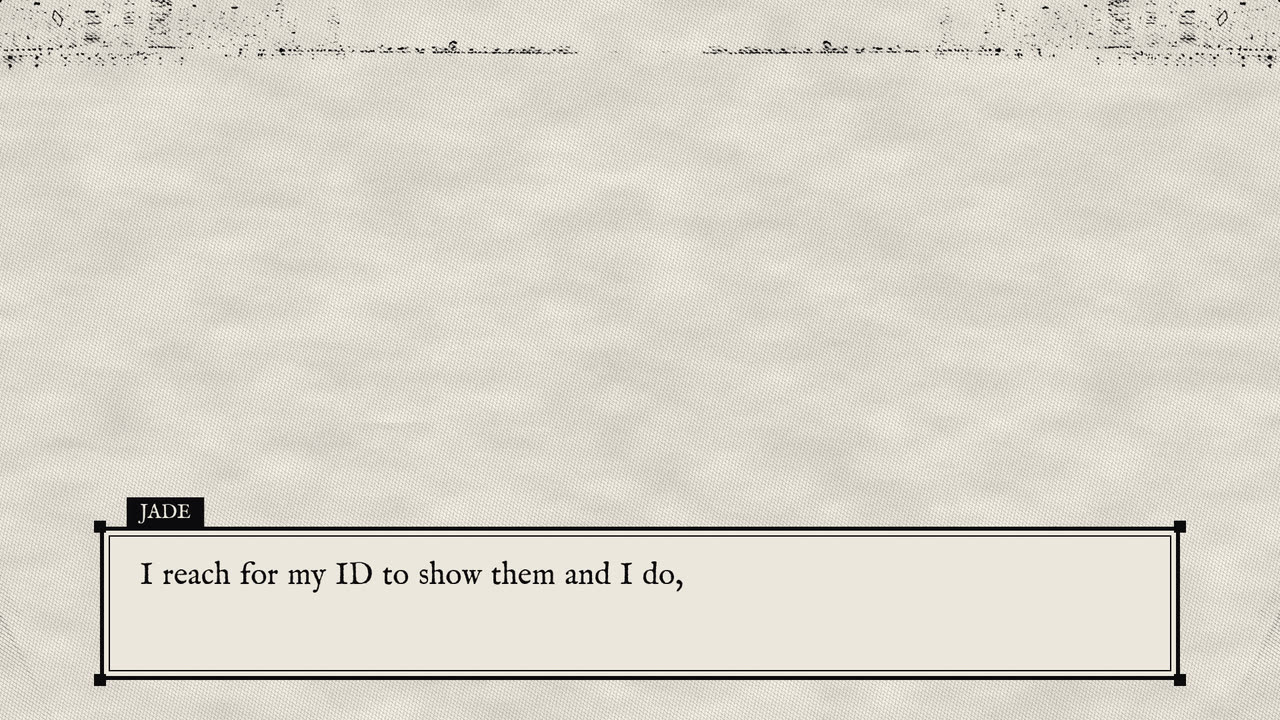
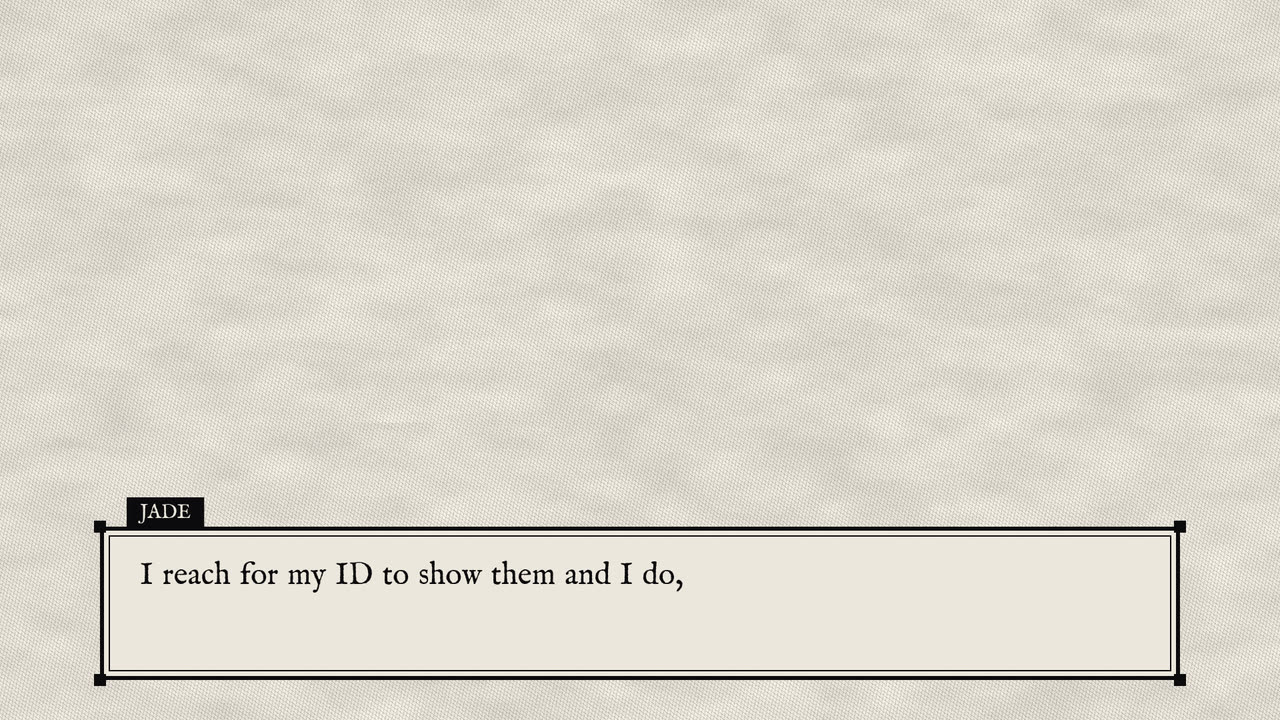
Engine kit fixes: no red, coloured ghosts, clean demo plate, terminal check
- Chroma split now fringes in the residue palette (orange #F08A24 / pale blue
  #8DB8E8) instead of red/cyan; new grade.residueRim remaps baked red rim
  lights to residue orange (on by default for ghosts); race HUD split colours
  orange/pale blue
- Ghosts default to translucent Kandinsky-coloured Jades and keep colour under
  isolate/negative; graphite: true gives the gray V2i speedrun ghost
- Kit demo plate cropped below the skyline strip that printed as a ragged band
  along the top edge (demo media, not an engine effect)
- Terminal redaction verified: black on paper, white in the inverted alarm;
  stills re-rendered, README updated

diff --git a/render/engine/demo/kit.js b/render/engine/demo/kit.js
@@ -1,9 +1,11 @@
 // Typography / HUD / residue kit demo: each shot sits at the moment of the song the shot list uses it for.
 //   node render/engine/render.mjs --timeline render/engine/demo/kit.js --stills 16.9,88.3,...   (see README "Kit stills")
 const M = 'media/engine_demo/';
-const JADE = { type: 'video', src: M + 'circle.mp4', matte: { src: M + 'circle_matte.mp4', mode: 'luma' }, keepColor: true, fit: 'height' };
+// the placeholder clip has a baked red rim light; residueRim remaps saturated reds to residue orange (no red in this film)
+const JADE = { type: 'video', src: M + 'circle.mp4', matte: { src: M + 'circle_matte.mp4', mode: 'luma' }, keepColor: true, fit: 'height', grade: { residueRim: 1 } };
 // the night plate printed as a negative: reads as an engraving on paper once `isolate` + `engrave` run over it
-const ENGRAVED = { type: 'image', src: M + 'far.jpg', fit: 'cover', scale: 1.15, grade: { exposure: 1.8, contrast: 1.15, invert: true } };
+// (cropped below the skyline strip, which printed as a ragged band along the top edge)
+const ENGRAVED = { type: 'image', src: M + 'far.jpg', fit: 'cover', crop: [0, 0.2, 1, 1], scale: 1.05, grade: { exposure: 1.8, contrast: 1.15, invert: true } };
 const PAPER_FX = [{ type: 'isolate', amount: 1, engrave: 0.6, cell: 5 }, { type: 'paper', amount: 0.6 }, { type: 'grain', amount: 0.04 }];
 const kb = (a, b) => ({ from: { scale: a }, to: { scale: b } });
 
@@ -41,13 +43,15 @@ export default {
     { id: 'continue', start: 111.22, end: 112.96, background: '#0b0b0c', layers: [{ type: 'canvas', module: 'hud', params: { mode: 'continue', from: 9, every: 0.8 } }] },
     { id: 'ghosts', start: 113.89, end: 119.4, layers: [{ ...ENGRAVED },
       { type: 'ghosts', src: M + 'circle.mp4', matte: { src: M + 'circle_matte.mp4' }, fit: 'height', scale: 0.42, y: 120, on: 'vocal_chops',
-        generate: { count: 13, seed: 4, area: [-820, -260, 820, 300], scale: [0.8, 1.15], offset: [0, 5], opacity: [0.55, 0.8] }, tint: 0.7 },
+        generate: { count: 13, seed: 4, area: [-820, -260, 820, 300], scale: [0.8, 1.15], offset: [0, 5], opacity: [0.55, 0.8] } },
       { ...JADE, scale: 0.62, y: 205 },
-      { type: 'canvas', module: 'hud', stage: 'post', params: { mode: 'platformer', side: 'right', iteration: 4097, deaths: { base: 4084, on: 'vocal_chops', from: 113.8 }, timer: { from: 56.54 } } }],
+      { type: 'canvas', module: 'hud', stage: 'post', params: { mode: 'platformer', side: 'right', color: '#0b0b0c', iteration: 4097, deaths: { base: 4084, on: 'vocal_chops', from: 113.8 }, timer: { from: 56.54 } } }],
       fx: [{ type: 'isolate', amount: 1, engrave: 0.55 }, { type: 'paper', amount: 0.5 }] },
     { id: 'swarm', start: 123.0, end: 126.25, layers: [{ ...ENGRAVED },
       { type: 'ghosts', src: M + 'circle.mp4', matte: { src: M + 'circle_matte.mp4' }, fit: 'height', scale: 0.25, y: 60,
-        generate: { count: 100, seed: 9, area: [-900, -330, 900, 380], scale: [0.6, 1.3], offset: [0, 6], quantize: 0.5, opacity: [0.5, 0.85] }, tint: 0.75 }],
+        generate: { count: 100, seed: 9, area: [-900, -330, 900, 380], scale: [0.6, 1.3], offset: [0, 6], quantize: 0.5, opacity: [0.5, 0.85] } },
+      { type: 'ghosts', src: M + 'circle.mp4', matte: { src: M + 'circle_matte.mp4' }, fit: 'height', scale: 0.5, x: 520, y: 200, graphite: true,
+        instances: [{ x: 0, y: 0, offset: -0.4, opacity: 0.6 }] }],   // the V2i speedrun ghost: graphite
       fx: [{ type: 'isolate', amount: 1, engrave: 0.55 }, { type: 'paper', amount: 0.5 }] },
     { id: 'pencil', start: 126.25, end: 130.5, background: '#ece7dc', layers: [{ ...ENGRAVED },
       { type: 'solid', color: '#f3eee2', rect: [560, 330, 820, 380], rotate: -3, keepColor: true },

diff --git a/render/engine/src/engine.js b/render/engine/src/engine.js
@@ -60,7 +60,7 @@ function normLayer(l, shot, i, T, tlDir) {
   }
   if (l.type === 'comp' && Array.isArray(l.srcTime)) l.srcTime = l.srcTime.map(k => [k[0], typeof k[1] === 'string' ? T.time(k[1]) : k[1], ...k.slice(2)]);
   if (l.type === 'parallax') l.layers = (l.layers || []).map((c, k) => ({ fit: 'height', repeat: [true, false], ...c, id: `${l.id}.p${k}`, _key: `${l._key}.p${k}` }));
-  if (l.type === 'ghosts') l._instances = ghostInstances(l);
+  if (l.type === 'ghosts') { if (l.keepColor === undefined) l.keepColor = !l.graphite; l._instances = ghostInstances(l); }
   return l;
 }
 function normShots(list, T, tlDir, kind) {
@@ -215,10 +215,11 @@ function videoSrcTime(l, env, m) {
 // Instances that land on the same source frame share one texture upload, so 100 ghosts with offsets quantised to a
 // dozen frames cost a dozen decodes. Explicit `instances` or a seeded `generate` spec (see README).
 function ghostInstances(l) {
-  if (Array.isArray(l.instances)) return l.instances.map((g, k) => ({ i: k, x: 0, y: 0, scale: 1, opacity: l.opacity ?? 0.55, ...g }));
+  if (Array.isArray(l.instances)) return l.instances.map((g, k) => ({ i: k, x: 0, y: 0, scale: 1, opacity: l.opacity ?? 0.55,
+    color: l.graphite ? '#5e5b57' : core.KANDINSKY[k % core.KANDINSKY.length], ...g }));
   const G = l.generate || {}, n = G.count ?? 13, r = rng(l.id, G.seed ?? 1);
   const area = G.area || [-700, -220, 700, 220], sc = G.scale || [0.8, 1.05], op = G.opacity || [0.35, 0.6], off = G.offset || [0, 0];
-  const colors = G.colors || core.KANDINSKY, q = G.quantize ?? 1 / 12;
+  const colors = l.graphite ? ['#5e5b57'] : (G.colors || core.KANDINSKY), q = G.quantize ?? 1 / 12;
   const out = [];
   for (let k = 0; k < n; k++) {
     const u = r(), v = r(), w = r(), z = r(), f = r(), o = r();
@@ -242,7 +243,7 @@ function ghostOps(l, env, base) {
   const vis = new Set(ordered.map(g => g.i));
   const ops = [];
   const lx = env.val(l.x, 0), ly = env.val(l.y, 0), lsRaw = env.val(l.scale, 1), ls = Array.isArray(lsRaw) ? lsRaw[0] : lsRaw;
-  const amt = env.val(l.tint, 0.65);
+  const amt = env.val(l.tint, l.graphite ? 0.9 : 0.72);
   for (const g of all) {
     if (!vis.has(g.i)) continue;
     let fade = clamp(show - g.i);                               // the newest one fades in
@@ -255,7 +256,8 @@ function ghostOps(l, env, base) {
     else if (l.key) op.key = vals(l.key, env.lt, env);
     const s = ls * (g.scale ?? 1);
     Object.assign(op, placement({ ...l, x: lx + (g.x || 0), y: ly + (g.y || 0), scale: [g.flip ? -s : s, s] }, bmp.width, bmp.height, env));
-    op.grade = { ...(base.grade || {}), ...(g.grade || {}), hue: g.hue ?? base.grade?.hue, colorize: g.color, colorizeAmount: g.tint ?? amt };
+    op.grade = { residueRim: 1, ...(base.grade || {}), ...(g.grade || {}), hue: g.hue ?? base.grade?.hue, colorize: g.color, colorizeAmount: g.tint ?? amt };
+    if (l.graphite) op.grade.saturation = 0;
     const isNew = g.i === ordered.length - 1 && l.on ? pop : 0;
     op.opacity = (g.opacity ?? 0.55) * fade * (1 + 0.8 * isNew);
     ops.push(op);

diff --git a/render/engine/src/shaders.js b/render/engine/src/shaders.js
@@ -37,7 +37,7 @@ uniform vec2 uRes; uniform float uS;
 uniform float uOpacity, uLinear, uPremul;
 uniform int uKey;              // 0 none, 1 luma, 2 chroma
 uniform vec3 uKeyColor; uniform float uKeyLo, uKeyHi, uKeySpill, uKeyInvert;
-uniform float uSat, uExposure, uContrast, uGamma, uInvert, uHue; uniform vec3 uTint, uLift; uniform vec4 uColorize;
+uniform float uSat, uExposure, uContrast, uGamma, uInvert, uHue, uRim; uniform vec3 uTint, uLift; uniform vec4 uColorize;
 uniform vec4 uColor;           // solid layers: rgba (uses no texture)
 uniform int uMode;             // 0 colour, 1 coverage (mask write: alpha in all channels)
 uniform float uSolid;
@@ -83,6 +83,10 @@ void main(){
       if (uKeySpill > 0.) { float sp = (1. - k) * uKeySpill; vec3 g = vec3(luma(c.rgb)); c.rgb = mix(c.rgb, g, clamp(sp * 2., 0., 1.)); }
     }
     // grade
+    if (uRim > 0.) {   // residueRim: saturated reds (baked rim lights) → residue orange #F08A24
+      float red = clamp((c.r - max(c.g, c.b)) * 2.5 - .15, 0., 1.) * step(c.b, c.g + .25);
+      c.rgb = mix(c.rgb, vec3(.94, .54, .14) * (c.r * 1.05), red * uRim);
+    }
     c.rgb = c.rgb * uExposure;
     c.rgb = (c.rgb - .5) * uContrast + .5;
     c.rgb = mix(vec3(luma(c.rgb)), c.rgb, uSat);
@@ -157,7 +161,13 @@ void main(){
   // chromatic split: radial + a horizontal misregistration
   vec2 dir = (uv - .5) * 2.;
   vec2 cs = (vec2(chroma) * (dir * .6 + vec2(.8, 0.))) / vec2(1920., 1080.);
-  vec3 col = vec3(fetch(uv + cs).r, fetch(uv).g, fetch(uv - cs).b);
+  // chroma split in the residue palette: fringes lean orange (#F08A24) on one side, pale blue (#8DB8E8) on the other,
+  // never red/cyan (the film has no red). Neutral luminance is preserved.
+  vec3 col = fetch(uv);
+  if (chroma > 0.) {
+    float lc = luma(col), la = luma(fetch(uv + cs)), lb = luma(fetch(uv - cs));
+    col += (la - lc) * vec3(.94, .54, .14) * 1.6 + (lb - lc) * vec3(.55, .72, .91) * 1.6;
+  }
   // VHS: chroma bleeds sideways, luma stays sharper, plus tape noise
   if (vhs > 0.) {
     vec3 acc = vec3(0.); float w = 0.;

diff --git a/render/engine/src/compositor.js b/render/engine/src/compositor.js
@@ -38,7 +38,7 @@ export class Compositor {
       uRepeat: { value: new THREE.Vector2() }, uRes: { value: new THREE.Vector2(W, H) }, uS: { value: this.S }, uOpacity: { value: 1 }, uLinear: { value: 0 }, uPremul: { value: 0 },
       uKey: { value: 0 }, uKeyColor: { value: new THREE.Vector3(0, 1, 0) }, uKeyLo: { value: 0 }, uKeyHi: { value: 0.1 }, uKeySpill: { value: 0 }, uKeyInvert: { value: 0 },
       uSat: { value: 1 }, uExposure: { value: 1 }, uContrast: { value: 1 }, uGamma: { value: 1 }, uInvert: { value: 0 }, uTint: { value: new THREE.Vector3(1, 1, 1) }, uLift: { value: new THREE.Vector3() },
-      uHue: { value: 0 }, uColorize: { value: new THREE.Vector4() },
+      uHue: { value: 0 }, uColorize: { value: new THREE.Vector4() }, uRim: { value: 0 },
       uColor: { value: new THREE.Vector4(0, 0, 0, 1) }, uMode: { value: 0 }, uSolid: { value: 0 },
     };
     this.layerMat = {}; for (const b of Object.keys(BLEND)) this.layerMat[b] = raw(FS_LAYER, U, b);
@@ -107,7 +107,7 @@ export class Compositor {
     U.uSat.value = g.saturation ?? 1; U.uExposure.value = g.exposure ?? 1; U.uContrast.value = g.contrast ?? 1; U.uGamma.value = g.gamma ?? 1; U.uInvert.value = g.invert ? 1 : 0;
     const tn = g.tint ? hexRgb(g.tint) : [1, 1, 1]; U.uTint.value.set(tn[0], tn[1], tn[2]);
     const lf = g.lift ? hexRgb(g.lift) : [0, 0, 0]; U.uLift.value.set(lf[0], lf[1], lf[2]);
-    U.uHue.value = (g.hue || 0) * Math.PI / 180;
+    U.uHue.value = (g.hue || 0) * Math.PI / 180; U.uRim.value = g.residueRim || 0;
     if (g.colorize) { const cz = hexRgb(g.colorize); U.uColorize.value.set(cz[0], cz[1], cz[2], g.colorizeAmount ?? 0.65); } else U.uColorize.value.set(0, 0, 0, 0);
     U.uMode.value = op.mode === 'coverage' ? 1 : 0;
     this._draw(this.layerMat[op.blend || 'normal'] || this.layerMat.normal, target);

diff --git a/render/engine/modules/hud.js b/render/engine/modules/hud.js
@@ -14,7 +14,7 @@
 //                 progress keys, bg ('#0b0b0c'; null = transparent)
 //   'rewind'      ◀◀ ×N (multiplier keys), ring (clock ring sweeping counter-clockwise; sweep keys 0..1 or rate),
 //                 counter (tape counter keys, s), scrub (0..1 keys)
-//   'race'        GHOST: ITERATION n + split (keys, s; negative = ahead), splitColor keys
+//   'race'        GHOST: ITERATION n + split (keys, s; negative = ahead: pale blue; behind: orange), splitColor keys
 import { absT, fontName } from './lib/text.js';
 import { clamp, clock as fmtClock, hash } from '../src/core.js';
 
@@ -170,5 +170,5 @@ function race(g, env, p) {
   const s = (sp >= 0 ? '+' : '-') + Math.abs(sp).toFixed(2), width = Math.max(g.measureText(label).width, g.measureText(s).width);
   const x0 = corner(env, p, width), y = env.val(p.margin, 56) + size;
   g.fillStyle = col; g.fillText(label, x0, y);
-  g.fillStyle = env.val(p.splitColor, sp < 0 ? '#5fd17a' : '#ff5a4a'); g.fillText(s, x0, y + size * 1.75);
+  g.fillStyle = env.val(p.splitColor, sp < 0 ? '#8DB8E8' : '#F08A24'); g.fillText(s, x0, y + size * 1.75);
 }

diff --git a/render/engine/README.md b/render/engine/README.md
@@ -111,7 +111,7 @@ export default {
 
 ### Layers
 
-Common: `id`, `type`, `start`/`end`, `opacity`, `fadeIn`/`fadeOut` (s), `blend` (`normal` `add` `screen` `multiply` `erase`), `stage` (`pre` | `post`), `keepColor` (stays in colour under `isolate` / `negative`), `realtime` (ignore the shot's time remap), `time` (layer clock remap), `noRewind` (skipped inside a comp), transform: `fit` (`cover` `contain` `height` `width` `stretch` `none`), `x`, `y` (design px from centre), `scale` (or `[sx, sy]`; negative = flip), `rotate` (deg), `anchor`, `crop` (`[x0, y0, x1, y1]` normalised), `rect` (`[x, y, w, h]`), `kenBurns: {from: {scale, x, y, rotate}, to: {…}, ease}`, `grade: {saturation, exposure, contrast, gamma, tint, lift, invert, hue (deg), colorize '#hex', colorizeAmount}`, `key: {type: 'luma', low, high, invert} | {type: 'chroma', color, tolerance, softness, spill}`.
+Common: `id`, `type`, `start`/`end`, `opacity`, `fadeIn`/`fadeOut` (s), `blend` (`normal` `add` `screen` `multiply` `erase`), `stage` (`pre` | `post`), `keepColor` (stays in colour under `isolate` / `negative`), `realtime` (ignore the shot's time remap), `time` (layer clock remap), `noRewind` (skipped inside a comp), transform: `fit` (`cover` `contain` `height` `width` `stretch` `none`), `x`, `y` (design px from centre), `scale` (or `[sx, sy]`; negative = flip), `rotate` (deg), `anchor`, `crop` (`[x0, y0, x1, y1]` normalised), `rect` (`[x, y, w, h]`), `kenBurns: {from: {scale, x, y, rotate}, to: {…}, ease}`, `grade: {saturation, exposure, contrast, gamma, tint, lift, invert, hue (deg), colorize '#hex', colorizeAmount, residueRim (0..1: remaps saturated reds, e.g. a generated clip's red rim light, to residue orange #F08A24)}`, `key: {type: 'luma', low, high, invert} | {type: 'chroma', color, tolerance, softness, spill}`.
 
 | type | specific params |
 |---|---|
@@ -125,7 +125,7 @@ Common: `id`, `type`, `start`/`end`, `opacity`, `fadeIn`/`fadeOut` (s), `blend` 
 
 ### Effects (`fx`, shot-level; numbers keyframable on the shot clock)
 
-`grain {amount, size, seed: 'frame'|'twos'|'shot'}` · `paper {amount}` · `vignette` · `scanlines` · `chroma {amount px}` · `vhs` · `warble` · `wobble` · `tracking` · `ripple {amount, speed}` · `zoom` · `spin` · `grade {saturation, contrast, exposure, tint, lift}` · `letterbox {aspect 2.39, amount}` · `isolate {amount, ink, paper, engrave, cell, angle}` (world → ink on paper / engraving; `keepColor` layers stay) · **`negative {amount, ink, paper}`** (woodblock negative: white lines on ink; `keepColor` layers stay in colour; key 0→1 over .3 s for P5) · `fade {in, out}` · `flash {at, on, dur, amount, color}` · `punch {amount, on, decay}` · `shake {amp, freq, steady, on, decay}` · `tapeStop {at, dur, toBlack}` · `hold {at, until}` (freeze frame) · `rewind {amount}` (VHS search) · `bg {color}`.
+`grain {amount, size, seed: 'frame'|'twos'|'shot'}` · `paper {amount}` · `vignette` · `scanlines` · `chroma {amount px}` (split in the residue palette: orange/pale-blue fringes, never red/cyan) · `vhs` · `warble` · `wobble` · `tracking` · `ripple {amount, speed}` · `zoom` · `spin` · `grade {saturation, contrast, exposure, tint, lift}` · `letterbox {aspect 2.39, amount}` · `isolate {amount, ink, paper, engrave, cell, angle}` (world → ink on paper / engraving; `keepColor` layers stay) · **`negative {amount, ink, paper}`** (woodblock negative: white lines on ink; `keepColor` layers stay in colour; key 0→1 over .3 s for P5) · `fade {in, out}` · `flash {at, on, dur, amount, color}` · `punch {amount, on, decay}` · `shake {amp, freq, steady, on, decay}` · `tapeStop {at, dur, toBlack}` · `hold {at, until}` (freeze frame) · `rewind {amount}` (VHS search) · `bg {color}`.
 
 Events for `on`: `'beat'`, `'downbeat'`, `'every:2'`, any event type in timing.json (`'impact'`, `'trailer_impact'`, `'vocal_chops'`, `'words'`, `'lines'`, …), an array of times, or `{list, every, offset}`. Events before the shot's start are ignored.
 
@@ -152,7 +152,7 @@ Fonts (OFL, vendored in `render/fonts/`, loaded automatically): **IM Fell Englis
 | `pin` | in-world text, **corner-pinned** (projective mesh warp) | `corners` [TL, TR, BR, BL] 8 numbers, keyframable (track the plate by keying them); `style: 'sign'` (Overpass on a bordered panel; `panel: '#1f5a3a'` for green) / `'etch'` / `'ground'` (use `blend: 'multiply'`) / `'plain'`; `text`, `size`, `res` | `kit_pin_sign.jpg`, `kit_pin_ground.jpg` |
 | `etch` | mirror etching (D3, V2f) = `pin` with style etch; frosted glyphs with a groove shadow and scratches | as pin; `blend: 'screen'` over dark glass | `kit_etch_mirror.jpg` |
 | `title` | **REWIND**: letters arrive in reverse order (D first), mirrored, then card-flip to right-reading | `arrive: {at, every}` (`every: 0` = whole mirrored word bleeds in at once, C3), `flip: {at, dur, stagger}`, `mirrored: false` (second REWIND), `subtitle: 'jade wang'`, `size` | `kit_title_rewind_flip.jpg` |
-| `terminal` | agency terminal; `█` runs are real solid redaction blocks; typed on pace or word timings; inverted alarm | `lines: ['TIME VARIANCE █████████', {text: 'ANOMALY DETECTED.', sync: 'lyric'}]`, `cps`, `alarm` (0/1 keys), `blink` (Hz), `mode: 'full'` / `'panel'` + `rect`, `size` | `kit_terminal_alarm.jpg` |
+| `terminal` | agency terminal; `█` runs are real solid redaction blocks (black on paper; white on ink in the inverted alarm); typed on pace or word timings | `lines: ['TIME VARIANCE █████████', {text: 'ANOMALY DETECTED.', sync: 'lyric'}]`, `cps`, `alarm` (0/1 keys), `blink` (Hz), `mode: 'full'` / `'panel'` + `rect`, `size` | `kit_terminal_normal.jpg`, `kit_terminal_alarm.jpg` |
 | `whisper` | whispered "shot", "never stop": IM Fell italic, lowercase, graphite, tracked out, breathes in | `text`, `sync`, `size` 34, `color`, `tracking` (em), `x`, `y` | in `kit_motes_burst_whisper.jpg` |
 | `trace` | "it couldn't **trace**": a dotted line traces the letters, loses the path, wanders off | `text`, `at` (e.g. `'word:trace'`), `dur`, `lose` (fraction traced), `wander`, `wanderLen`, `spacing`, `dot`, `ghost`, `color` | `kit_trace_lost.jpg` |
 | `pencil` | handwriting that writes itself (sticky note, anagram slip, "never stop" on walls) | `text`, `at` + `cps` or `sync`/`times`, `size`, `color` (graphite; orange for coloured pencil), `x`, `y`, `rotate`, `corners`, `grain`, `point` | `kit_pencil_handwriting.jpg` |
@@ -176,7 +176,7 @@ HUD modes (`hud`, `params.mode`):
 ## Residue, ghosts and post
 
 - **Ribbon** (`module: 'ribbon'`): `path` keys `[[t, x, y], …]` or **`follow: {layer: 'jade', point: 'centroid' | 'top' | 'bottom', smooth: 3, offset: [dx, dy]}`**, which rides a video layer's matte in the same shot (the tracker: render.mjs extracts a per-frame centroid/top/bottom track from every matte, smoothed over ±n frames, mapped through that layer's framing and speed). `trail` (s), `drift` [vx, vy] (world motion so residue streams behind her), `width`, `colors` (default residue gradient `#F08A24 → #8DB8E8`; give each ghost iteration its own from `core.KANDINSKY`), `twist`, **`bloom`** (additive glow, default .8), **`grain`** (coloured-pencil tooth, default .5), `pencil` (hatched strokes), `motes` (density). Give it `keepColor: true` under `isolate`/`negative`. `--track <matte>` dumps the same track as JSON for other tools.
-- **Ghosts** (`type: 'ghosts'`): one matted clip drawn many times: `src`, `matte`, base `fit/x/y/scale`, `in`/`rate`/`loop`, `tint` (colorize amount, .65), and either `instances: [{x, y, scale, flip, color, hue, tint, opacity, offset (s), freeze (source s), blend}]` or `generate: {count, seed, area: [x0, y0, x1, y1] (offsets), scale: [min, max], opacity, offset: [min, max], quantize (s), colors (default Kandinsky), flip, sort}`. Reveal with `show` (count keys; fractional fades in the next) or `on: 'vocal_chops'` (one more ghost per event, with a pop). Instances on the same source frame share one texture, so `quantize` the offsets: 13 ghosts ≈ 130 ms, 100 ghosts ≈ 110 ms per 1080p frame here. V2i graphite ghost runner: one instance with `color: '#5e5b57'`, `tint: 1`, `offset: -0.4`.
+- **Ghosts** (`type: 'ghosts'`): translucent coloured Jades by default (each instance colorized along the Kandinsky spectrum orange, blue, gold, magenta, green; `keepColor` defaults to true so `isolate`/`negative` never grey them; red rim lights are remapped to orange). `graphite: true` makes the gray V2i speedrun ghost. One matted clip drawn many times: `src`, `matte`, base `fit/x/y/scale`, `in`/`rate`/`loop`, `tint` (colorize amount, .65), and either `instances: [{x, y, scale, flip, color, hue, tint, opacity, offset (s), freeze (source s), blend}]` or `generate: {count, seed, area: [x0, y0, x1, y1] (offsets), scale: [min, max], opacity, offset: [min, max], quantize (s), colors (default Kandinsky), flip, sort}`. Reveal with `show` (count keys; fractional fades in the next) or `on: 'vocal_chops'` (one more ghost per event, with a pop). Instances on the same source frame share one texture, so `quantize` the offsets: 13 ghosts ≈ 130 ms, 100 ghosts ≈ 110 ms per 1080p frame here. V2i graphite ghost runner: `graphite: true, instances: [{offset: -0.4, opacity: 0.6}]`.
 - **Woodblock negative** (`fx: negative`): world luminance flips to white lines on ink through the paper/ink duotone; `keepColor` layers (Jade's matte, motes, ribbons) stay in colour. Combine with `tapeStop` for P5, with `hold` for the frozen pause frame.
 - **Mote burst** (`module: 'motes'`): see the kit table; freeze it with the shot's `hold`/`tapeStop`, implode it by replaying through a `comp` backwards.
 
